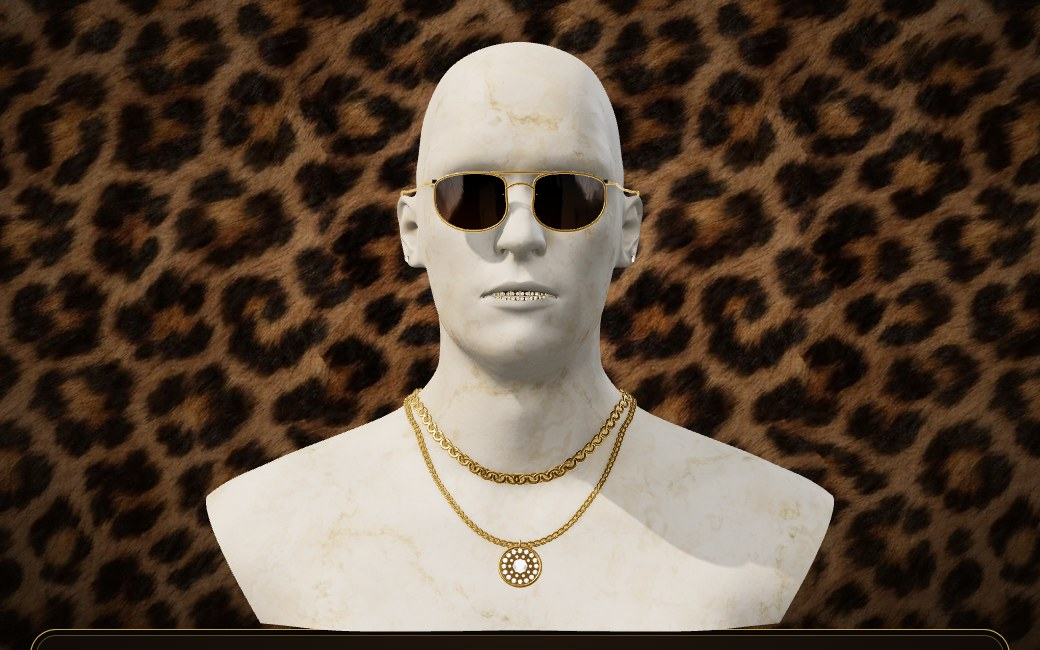
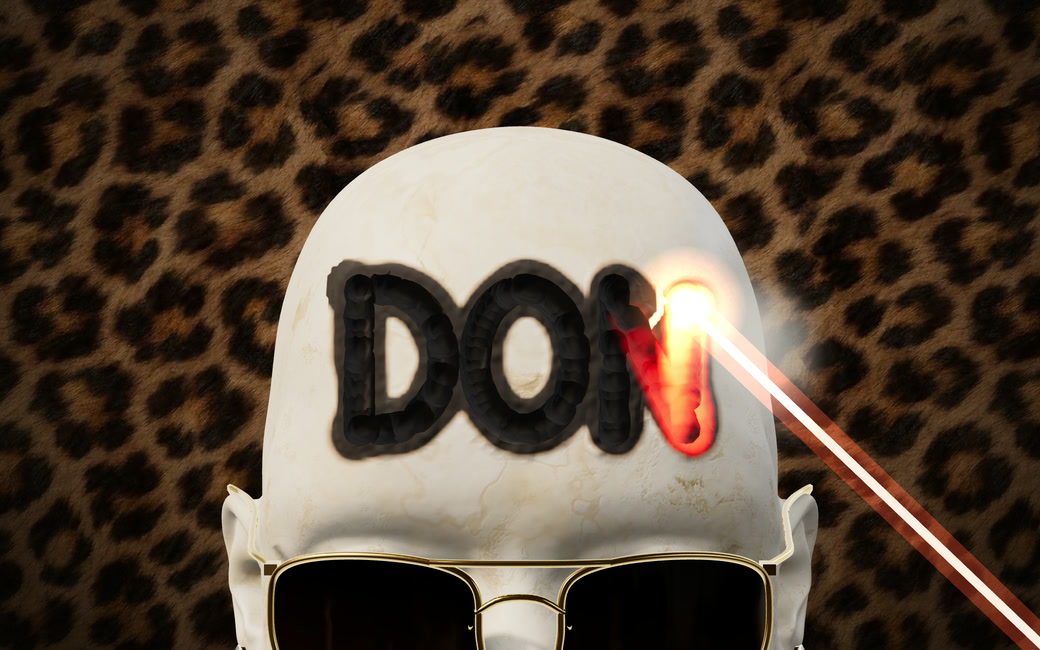
Don Marbleone: laser-carved cover, the beam drawn over everything, and a local cover picker
The cover is now "DON" burned into his forehead with the laser, shot mid-burn.
The laser beam draws on top of the stone so it never slips behind his head.
cover-picker.js (localhost only, like reorder.js) flips a tile through
candidate covers; bust/covers holds the four tried for this one.

diff --git a/cover-picker.js b/cover-picker.js
@@ -1,0 +1,77 @@
+(function () {
+  "use strict";
+
+  /* =========================================================================
+     Cover picker, for trying out cover art. Local only: it does nothing
+     unless the page is served from localhost, so it's inert on kmufti.com.
+
+     Puts arrows on a tile's cover to flip through candidate covers (the
+     one artwork.js has now, then each file in COVERS). The pick is
+     remembered in this browser (localStorage). To make one permanent, point
+     that tile's entry in artwork.js at the file.
+     ========================================================================= */
+
+  if (!/^(localhost|127\.0\.0\.1|\[::1\])$/.test(location.hostname)) return;
+
+  const COVERS = {
+    bust: [
+      ["before / after", "bust/covers/split.jpg"],
+      ["mob portrait", "bust/covers/mob.jpg"],
+      ["laser-carved", "bust/covers/laser.jpg"],
+      ["chain letters", "bust/covers/chain.jpg"],
+    ],
+  };
+
+  const apps = document.getElementById("apps");
+  if (!apps || typeof PROJECTS === "undefined") return;
+
+  const css = document.createElement("style");
+  css.textContent = `
+    .cover-pick { position: absolute; left: 50%; top: 10px; transform: translateX(-50%); z-index: 5;
+      display: flex; align-items: center; gap: 4px; padding: 3px; border-radius: 999px;
+      background: rgba(17,17,17,.82); color: #eee; font: 11px/1 "JetBrains Mono", ui-monospace, monospace;
+      white-space: nowrap; box-shadow: 0 4px 14px rgba(0,0,0,.3); }
+    .cover-pick button { font: inherit; font-size: 13px; width: 24px; height: 24px; border-radius: 50%;
+      border: 0; background: #2a2a2a; color: #eee; cursor: pointer; }
+    .cover-pick button:hover { background: #444; }
+    .cover-pick span { padding: 0 6px; min-width: 110px; text-align: center; }
+    .app-art.has-pick { position: relative; }
+  `;
+  document.head.appendChild(css);
+
+  PROJECTS.forEach((p) => {
+    const list = COVERS[p.slug];
+    if (!list) return;
+    const tile = [...apps.querySelectorAll(".app")].find((el) => el.getAttribute("href") === p.href);
+    const art = tile?.querySelector(".app-art");
+    if (!art) return;
+    const options = [["current", null, art.innerHTML], ...list];
+    const key = "kmufti-hub-cover-" + p.slug;
+    let i = 0;
+    try { i = Math.max(0, options.findIndex((o) => o[0] === localStorage.getItem(key))); } catch (e) { /* private mode */ }
+
+    art.classList.add("has-pick");
+    const bar = document.createElement("div");
+    bar.className = "cover-pick";
+    bar.innerHTML = `<button data-d="-1" aria-label="previous cover">‹</button><span></span><button data-d="1" aria-label="next cover">›</button>`;
+    const label = bar.querySelector("span");
+
+    function show() {
+      const [name, src, html] = options[i];
+      art.innerHTML = html || `<img src="${src}?v=${Date.now()}" alt="" />`;
+      art.appendChild(bar);
+      label.textContent = `${name} · ${i + 1}/${options.length}`;
+      try { localStorage.setItem(key, name); } catch (e) { /* private mode */ }
+    }
+    // the arrows flip covers; they don't open the project
+    bar.addEventListener("click", (e) => {
+      e.preventDefault();
+      e.stopPropagation();
+      const d = Number(e.target.dataset.d);
+      if (!d) return;
+      i = (i + d + options.length) % options.length;
+      show();
+    });
+    show();
+  });
+})();

diff --git a/artwork.js b/artwork.js
@@ -567,9 +567,9 @@ const ARTWORK = {
       <!-- a little spilt flour -->
       <g fill="#fbf1dc" opacity="0.55"><circle cx="69.5" cy="181.6" r="1.2"/><circle cx="70.4" cy="181.1" r="1.0"/><circle cx="52.9" cy="181.1" r="1.0"/><circle cx="90.7" cy="176.9" r="0.7"/><circle cx="47.1" cy="184.1" r="1.1"/><circle cx="44.1" cy="185.8" r="1.3"/><circle cx="82.0" cy="182.2" r="0.6"/><circle cx="42.4" cy="181.3" r="0.5"/><circle cx="53.3" cy="178.4" r="0.5"/><circle cx="70.3" cy="180.4" r="1.2"/><circle cx="73.7" cy="182.4" r="0.9"/><circle cx="82.6" cy="180.6" r="0.7"/><circle cx="103.4" cy="186.0" r="1.2"/><circle cx="85.4" cy="179.2" r="0.7"/></g>
     </svg>`,
-  /* Don Marbleone — a photo of the real thing: the page's own render,
-     cropped to the tile (bust/cover.jpg). */
-  bust: `<img src="bust/cover.jpg?v=3" alt="" loading="lazy" />`,
+  /* Don Marbleone — "DON" laser-carved into his forehead, caught mid-burn
+     with the N still glowing: a real shot of the game (bust/cover.jpg). */
+  bust: `<img src="bust/cover.jpg?v=4" alt="" loading="lazy" />`,
   /* Game Board — the shelf: Wavelength's box, Imposter's and Stop the
      Clock's LED clock standing on a plank. */
   "game-board": `

diff --git a/bust/bust.js b/bust/bust.js
@@ -95,6 +95,10 @@ function start(wrap) {
   const rim = new THREE.DirectionalLight(0xdfe6f2, 0.7);
   rim.position.set(1.1, 0.6, -1.2);
   scene.add(key, fill, rim);
+  // local only: a handle on the scene, for staging cover shots
+  if (/^(localhost|127\.0\.0\.1|\[::1\])$/.test(location.hostname)) {
+    window.__bust = { scene, camera, CAM, LOOK, key, fill, rim, renderer, redraw() { shadowDirty = true; kick(); } };
+  }
 
   const pivot = new THREE.Group();
   pivot.rotation.y = YAW;
@@ -1217,7 +1221,10 @@ function start(wrap) {
   const beam = new THREE.Group();
   beam.add(beamCore, beamGlow);
   beam.visible = beamSpot.visible = false;
+  // drawn over everything: it always ends on the stone you can see, so it
+  // should never look like it slips behind his head on the way there
   beamCore.renderOrder = beamGlow.renderOrder = beamSpot.renderOrder = 10;
+  for (const m of [beamCore.material, beamGlow.material, beamSpot.material]) m.depthTest = false;
   scene.add(beam, beamSpot);
   // prev: where the line last got to (bust space), or null when it's broken
   const laser = { on: false, rocks: [], age: 0, end: new THREE.Vector3(), from: new THREE.Vector3(), touching: false, prev: null };

diff --git a/index.html b/index.html
@@ -75,10 +75,12 @@
 
   <script src="you.js?v=2"></script>
   <script src="projects.js?v=21"></script>
-  <script src="artwork.js?v=55"></script>
+  <script src="artwork.js?v=56"></script>
   <script src="app.js?v=27"></script>
   <script src="heat-word.js?v=22"></script>
   <!-- layout mode for trying tile orders; does nothing off localhost -->
   <script src="reorder.js?v=3"></script>
+  <!-- cover picker for trying cover art; also does nothing off localhost -->
+  <script src="cover-picker.js?v=1"></script>
 </body>
 </html>

diff --git a/bust/index.html b/bust/index.html
@@ -42,6 +42,6 @@
     "three/addons/": "https://cdn.jsdelivr.net/npm/three@0.160.0/examples/jsm/",
     "three-mesh-bvh": "https://cdn.jsdelivr.net/npm/three-mesh-bvh@0.7.8/build/index.module.js",
     "three-bvh-csg": "https://cdn.jsdelivr.net/npm/three-bvh-csg@0.0.17/build/index.module.js" } }</script>
-  <script type="module" src="bust.js?v=45"></script>
+  <script type="module" src="bust.js?v=46"></script>
 </body>
 </html>
